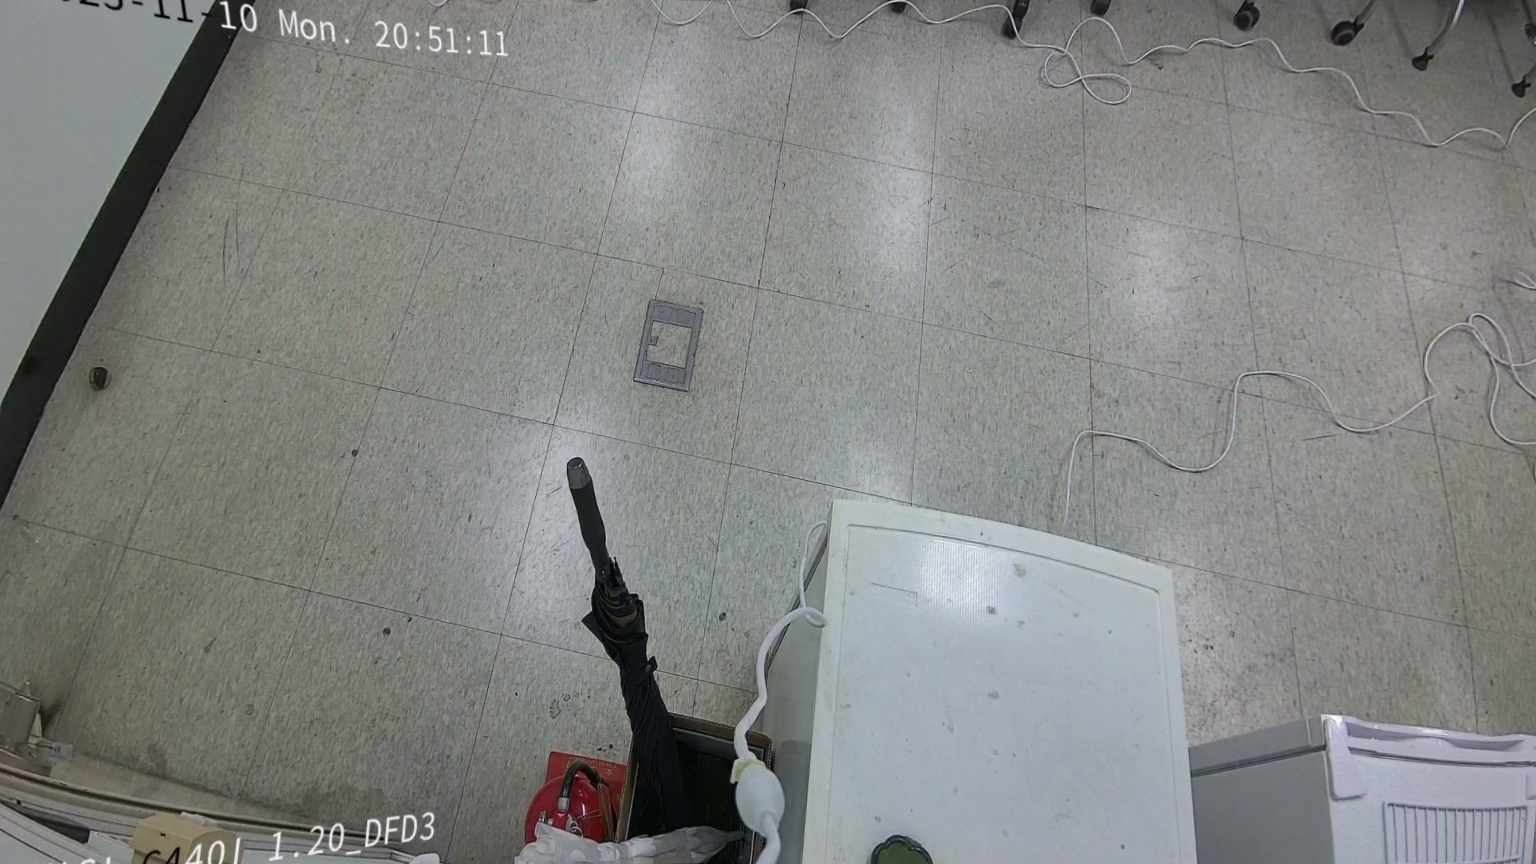
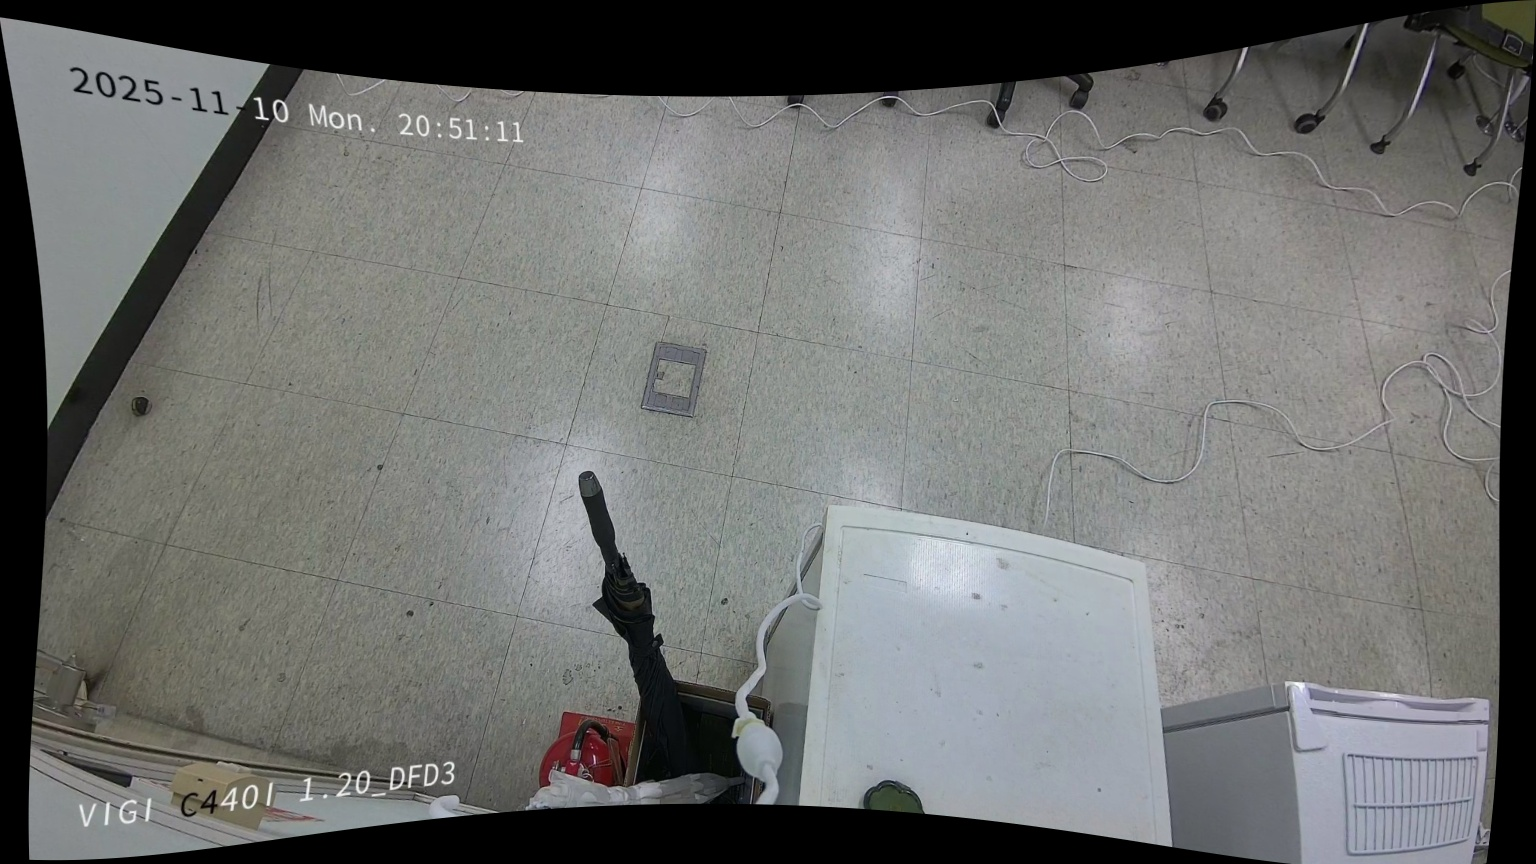
외곡보정할때 쓰이는 npz 파일 수정, img_to_ply_with_global_ply.py 코드 수정

diff --git a/pointcloud/make_pointcloud/img_to_ply_with_global_ply.py b/pointcloud/make_pointcloud/img_to_ply_with_global_ply.py
@@ -418,6 +418,53 @@ def K_from_fov_hv(W, H, fov_x_deg, fov_y_deg):
                      [0, fy, cy],
                      [0,  0,  1]], dtype=np.float64)
 
+def fov_from_K_and_size(K: np.ndarray, W: int, H: int):
+    fx = float(K[0, 0]); fy = float(K[1, 1])
+    hfov = math.degrees(2.0 * math.atan(W / (2.0 * fx)))
+    vfov = math.degrees(2.0 * math.atan(H / (2.0 * fy)))
+    return hfov, vfov
+
+def _npz_get(data, keys, default=None):
+    for k in keys:
+        if k in data:
+            return data[k]
+    return default
+
+def load_intrinsics_from_npz(npz_path: str):
+    """
+    반환: (hfov, vfov, K_rect, W, H)
+      - hfov/vfov: 저장돼 있으면 float, 없으면 None
+      - K_rect: rectified/new K, 없으면 None
+      - W,H: size/img_size 또는 width/height에서 유추 (없으면 None)
+    허용 키:
+      - FOV: 'hfov'/'fov_x', 'vfov'/'fov_y'
+      - K(rect): 'new_K','K_new','rectified_K','newK' (그 외 'K'는 fallback)
+      - 크기: 'size','img_size' 또는 'width','height'
+    """
+    data = np.load(npz_path, allow_pickle=True)
+
+    hfov = _npz_get(data, ["hfov", "fov_x"])
+    vfov = _npz_get(data, ["vfov", "fov_y"])
+
+    K_rect = _npz_get(data, ["new_K", "K_new", "rectified_K", "newK"])
+    if K_rect is None:
+        K_rect = _npz_get(data, ["K"])
+
+    size = _npz_get(data, ["size", "img_size"])
+    W = _npz_get(data, ["width"])
+    H = _npz_get(data, ["height"])
+    if size is not None and (W is None or H is None):
+        W = int(size[0]); H = int(size[1])
+    if W is not None: W = int(np.asarray(W).item())
+    if H is not None: H = int(np.asarray(H).item())
+
+    if hfov is not None:
+        hfov = float(np.asarray(hfov).item())
+    if vfov is not None:
+        vfov = float(np.asarray(vfov).item())
+    if K_rect is not None:
+        K_rect = np.asarray(K_rect, dtype=np.float64)
+    return hfov, vfov, K_rect, W, H
 
 def _axes_pointcloud(origin_xyz, R_axes, scale=5.0, n_pts=100, include_z=True, color_strength=1.0):
     """
@@ -769,6 +816,10 @@ def main():
                     help="Alpha of camera-visible overlay when composing BEV preview (0..1, default 0.70)")
     ap.add_argument("--global-gain", type=float, default=0.60,
                     help="Brightness gain for global PLY layer in BEV preview (e.g., 0.3~1.2, default 0.60)")
+    ap.add_argument("--intrinsic-source", choices=["cli","npz"], default="npz",
+                    help="카메라 내부 파라미터 소스 선택: 'npz'(기본) 또는 'cli'. npz는 undistort 단계에서 저장한 NPZ에서 K/FOV를 읽음")
+    ap.add_argument("--intrinsic-npz", type=str, default=None,
+                    help="--intrinsic-source=npz 인 경우 사용할 NPZ 경로(undistort_params.npz 등)")
     args = ap.parse_args()
     origin_cv = None
 
@@ -795,10 +846,40 @@ def main():
         raise FileNotFoundError(args.image)
     H, W = img.shape[:2]
 
-    if args.fov_y is not None:
-        K = K_from_fov_hv(W, H, args.fov, args.fov_y)
+    # ---- Intrinsics selection (default: NPZ) ----
+    if args.intrinsic_source == "npz":
+        if not args.intrinsic_npz:
+            raise ValueError("--intrinsic-source=npz 사용 시 --intrinsic-npz 경로가 필요합니다.")
+        hfov_npz, vfov_npz, K_rect, W_npz, H_npz = load_intrinsics_from_npz(args.intrinsic_npz)
+
+        if hfov_npz is not None and vfov_npz is not None:
+            # NPZ에 FOV가 있으면 현재 입력 이미지 해상도에 맞춰 K 구성
+            K = K_from_fov_hv(W, H, hfov_npz, vfov_npz)
+            # HUD/저장 경로 일관성을 위해 CLI 값도 업데이트
+            args.fov   = float(hfov_npz)
+            args.fov_y = float(vfov_npz)
+        elif K_rect is not None:
+            # undistort된 이미지를 입력으로 쓰므로 rectified K를 우선 사용
+            if (W_npz is not None and H_npz is not None) and (W != W_npz or H != H_npz):
+                sx = W / float(W_npz); sy = H / float(H_npz)
+                S = np.array([[sx, 0.0, 0.0],
+                            [0.0, sy, 0.0],
+                            [0.0, 0.0, 1.0]], dtype=np.float64)
+                K = S @ K_rect
+            else:
+                K = K_rect
+            # FOV 역산하여 HUD/로그에 사용
+            hf, vf = fov_from_K_and_size(K, W, H)
+            args.fov   = float(hf)
+            args.fov_y = float(vf)
+        else:
+            raise ValueError(f"NPZ({args.intrinsic_npz})에서 FOV도 K도 찾지 못했습니다.")
     else:
-        K = K_from_fov(W, H, args.fov)
+        # 기존 CLI 경로 유지
+        if args.fov_y is not None:
+            K = K_from_fov_hv(W, H, args.fov, args.fov_y)
+        else:
+            K = K_from_fov(W, H, args.fov)
     x,y,z = [float(v) for v in args.pos.split(",")]
     yaw,pitch,roll = [float(v) for v in args.rot.split(",")]
 
@@ -1050,6 +1131,15 @@ def main():
                     M_c2w_carla[:3, :3] = R_carla
                     M_c2w_carla[:3, 3]  = np.array([x, y, z], dtype=np.float64)
 
+                    # --- add: explicit HFOV/VFOV (deg) ---
+                    fx = float(K_full[0, 0]); fy = float(K_full[1, 1])
+                    # 우선순위: 사용자가 --fov-y를 넘겼다면 그 값을 신뢰, 없으면 K로부터 복원
+                    fov_x_deg = float(args.fov)  # --fov 는 수평 FOV
+                    if args.fov_y is not None:
+                        fov_y_deg = float(args.fov_y)
+                    else:
+                        fov_y_deg = math.degrees(2.0 * math.atan(H / (2.0 * fy)))
+
                     npz_path = os.path.join(save_dir, f"{fname_stem}_pixel2world_lut.npz")
                     np.savez_compressed(
                         npz_path,
@@ -1061,7 +1151,10 @@ def main():
                         ground_valid_mask=ground_valid_mask.astype(np.uint8),
                         K=K_full.astype(np.float32),
                         cam_pose=cam_pose.astype(np.float32),                            # [x,y,z,pitch,yaw,roll]
-                        width=np.int32(W), height=np.int32(H), fov=np.float32(fov),
+                        width=np.int32(W), height=np.int32(H),
+                        fov=np.float32(fov),                 # (기존 유지: 수평 FOV) (fov_x와 같음)
+                        hfov=np.float32(fov_x_deg),         # (신규) 수평 FOV
+                        vfov_y=np.float32(fov_y_deg),         # (신규) 수직 FOV
                         ray_model=np.array('forward', dtype='U'),                        # fixed to match multi-cam default
                         sem_channel=np.array('auto', dtype='U'),                         # fixed to match multi-cam default
                         floor_ids=floor_ids_arr.astype(np.int32),
